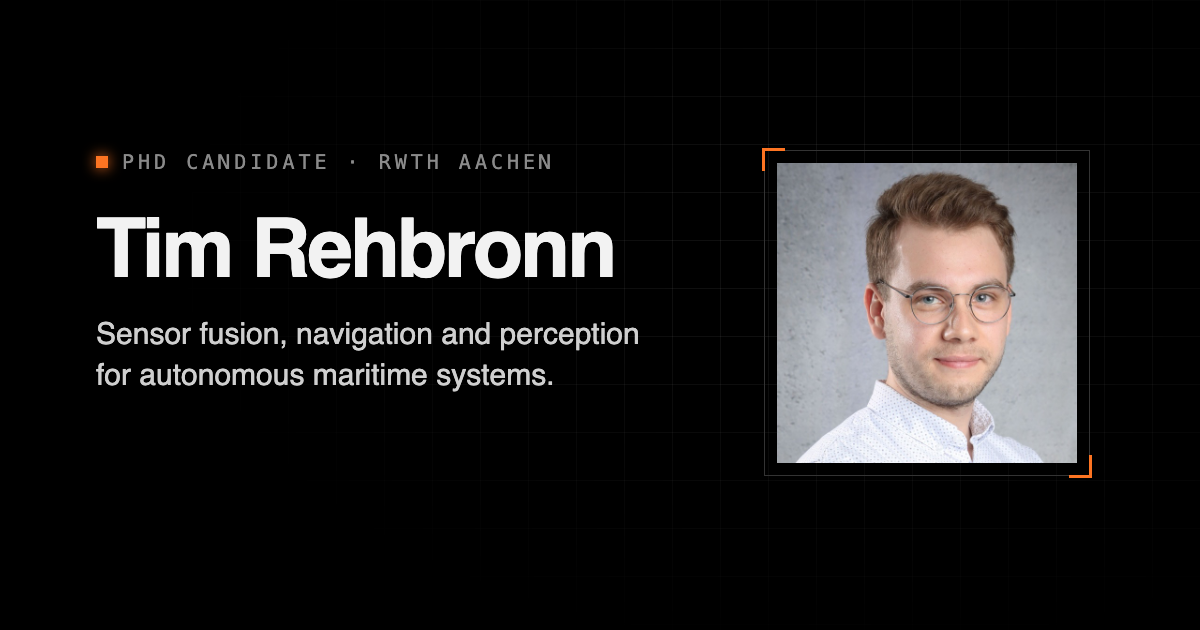
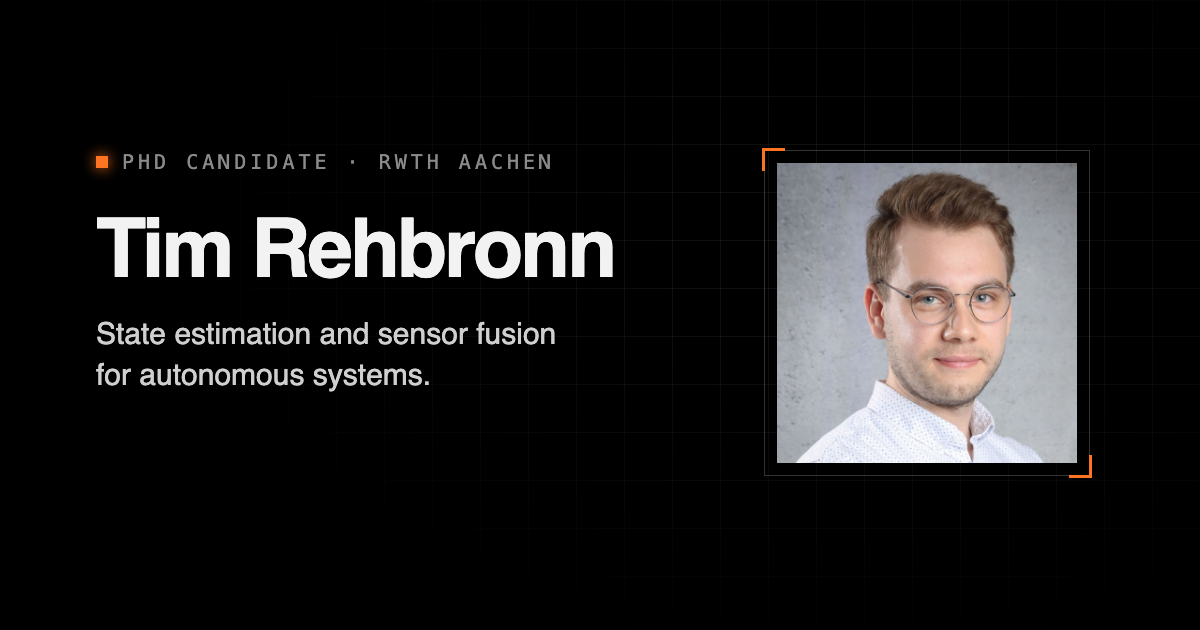
Refocus About on state estimation and add project illustrations
- About: focus on state estimation and sensor fusion for autonomous
  systems, thesis supervision, leadership training and working style;
  remove header line, portrait caption and em dashes
- Portrait under a new file name so browsers fetch the new photo
- Illustrations for the harbor navigation (factor graph) and inland
  vessel trajectory prediction projects

Changed region(s): [[0.0925, 0.5127, 0.555, 0.6333]]

diff --git a/src/config.ts b/src/config.ts
@@ -8,9 +8,9 @@ export const SITE = {
   affiliationUrl: 'https://www.irt.rwth-aachen.de',
   location: 'Aachen, Germany',
   description:
-    'Tim Rehbronn — PhD candidate at RWTH Aachen University working on sensor fusion, navigation and perception for autonomous maritime systems.',
+    'Tim Rehbronn — researcher and PhD candidate at RWTH Aachen University working on state estimation and sensor fusion for autonomous systems.',
   email: 'tim@rehbronn.de',
-  avatar: '/images/avatar.jpg',
+  avatar: '/images/portrait-2026.jpg', // new file name = no stale browser cache
   ogImage: '/images/og.png', // social preview image (1200×630)
   cvPdf: '', // optional: put a public CV into public/cv.pdf and set '/cv.pdf'
   // Variants of your name that get highlighted in author lists.

diff --git a/scripts/paper-thumbnails.py b/scripts/paper-thumbnails.py
@@ -1,4 +1,5 @@
-"""Generate teaser SVGs (320x200): SIMPLE-C, MSTNet, ICMASS 2025, ICECET 2023, Formula Student.
+"""Generate teaser SVGs (320x200): SIMPLE-C, MSTNet, ICMASS 2025, ICECET 2023, Formula Student,
+harbor navigation and inland vessel trajectory prediction.
 
 Usage: python3 scripts/paper-thumbnails.py public/images/publications
 """
@@ -312,6 +313,110 @@ def formula_student():
     s.append('</svg>')
     return '\n'.join(s)
 
+# ---------------------------------------------------------------- Robust harbor navigation (factor graph)
+def harbor_navigation():
+    s = []
+    s.append('<svg xmlns="http://www.w3.org/2000/svg" viewBox="0 0 320 200" width="640" height="400">')
+    s.append('<defs><pattern id="hg" width="16" height="16" patternUnits="userSpaceOnUse"><path d="M16 0H0V16" fill="none" stroke="#16181b" stroke-width=".8"/></pattern></defs>')
+    s.append('<rect width="320" height="200" fill="#060606"/><rect width="320" height="200" fill="url(#hg)"/>')
+    land = '#131417'
+    # narrow basin: quay walls top and bottom
+    s.append(f'<path d="M0 0 H320 V58 H250 L236 70 H120 L106 58 H0 Z" fill="{land}" stroke="#3a3f45" stroke-width="1"/>')
+    s.append(f'<path d="M0 200 V156 H90 L104 146 H214 L226 156 H320 V200 Z" fill="{land}" stroke="#3a3f45" stroke-width="1"/>')
+    # cranes / buildings on the quay (block GNSS)
+    for x, h in ((128, 30), (176, 38), (222, 26)):
+        s.append(f'<rect x="{x}" y="{70-h}" width="14" height="{h}" fill="#1c1e22" stroke="#4a4f56" stroke-width=".8"/>')
+        s.append(f'<path d="M{x+7} {70-h} V{70-h-10} M{x-6} {70-h-10} H{x+26}" stroke="#4a4f56" stroke-width="1"/>')
+    # satellites
+    def sat(x, y):
+        return (f'<g transform="translate({x} {y}) rotate(-20)"><rect x="-3" y="-3" width="6" height="6" fill="{FG}"/>'
+                f'<rect x="-13" y="-2" width="8" height="4" fill="none" stroke="{FG}" stroke-width=".9"/>'
+                f'<rect x="5" y="-2" width="8" height="4" fill="none" stroke="{FG}" stroke-width=".9"/></g>')
+    s.append(sat(34, 18)); s.append(sat(296, 16)); s.append(sat(190, 10))
+    # trajectory poses
+    poses = [(26, 108), (60, 104), (96, 102), (132, 104), (168, 108), (204, 110), (240, 106), (276, 100), (304, 96)]
+    sig = [6, 6.5, 9, 12, 15, 17, 11, 7, 6]  # uncertainty grows inside the GNSS-denied section
+    for (x, y), r in zip(poses, sig):
+        s.append(f'<ellipse cx="{x}" cy="{y}" rx="{r*1.25:.1f}" ry="{r*.8:.1f}" fill="{ORANGE}" fill-opacity=".07" stroke="{ORANGE}" stroke-opacity=".35" stroke-width=".7"/>')
+    # GNSS factors only at the open ends; blocked signals in the middle
+    for (sx, sy), idx in (((34, 18), 0), ((34, 18), 1), ((296, 16), 7), ((296, 16), 8)):
+        x, y = poses[idx]
+        s.append(f'<line x1="{sx}" y1="{sy+4}" x2="{x}" y2="{y-6}" stroke="{FG}" stroke-opacity=".5" stroke-width=".8" stroke-dasharray="1.5 2"/>')
+        s.append(f'<rect x="{x-2.5}" y="{y-20}" width="5" height="5" fill="{FG}"/><line x1="{x}" y1="{y-15}" x2="{x}" y2="{y-4}" stroke="{FG}" stroke-width=".8"/>')
+    for tx, ty in ((168, 46), (190, 40)):
+        s.append(f'<line x1="190" y1="14" x2="{tx}" y2="{ty}" stroke="{MUTED}" stroke-width=".8" stroke-dasharray="1.5 2"/>')
+        s.append(f'<path d="M{tx-3} {ty-3} l6 6 M{tx+3} {ty-3} l-6 6" stroke="{ORANGE}" stroke-width="1.3"/>')
+    # landmark factors (LiDAR / radar / camera) to quay corners
+    landmarks = [(106, 58), (120, 70), (236, 70), (104, 146), (214, 146)]
+    for lx, ly in landmarks:
+        s.append(f'<path d="M{lx} {ly-4} l4 7 h-8 z" fill="none" stroke="{BLUE}" stroke-width="1"/>')
+    for (pi, li) in ((2, 0), (3, 1), (3, 3), (4, 3), (5, 2), (5, 4), (6, 2), (4, 4)):
+        x, y = poses[pi]; lx, ly = landmarks[li]
+        mx, my = (x + lx) / 2, (y + ly) / 2
+        s.append(f'<line x1="{x}" y1="{y}" x2="{lx}" y2="{ly}" stroke="{BLUE}" stroke-opacity=".55" stroke-width=".8"/>')
+        s.append(f'<rect x="{mx-2}" y="{my-2}" width="4" height="4" fill="#060606" stroke="{BLUE}" stroke-width=".8"/>')
+    # odometry / IMU factors between consecutive poses
+    for (x0, y0), (x1, y1) in zip(poses, poses[1:]):
+        s.append(f'<line x1="{x0}" y1="{y0}" x2="{x1}" y2="{y1}" stroke="{ORANGE}" stroke-width="1.4"/>')
+        s.append(f'<rect x="{(x0+x1)/2-2.5:.1f}" y="{(y0+y1)/2-2.5:.1f}" width="5" height="5" fill="#060606" stroke="{ORANGE}" stroke-width="1"/>')
+    for x, y in poses:
+        s.append(f'<circle cx="{x}" cy="{y}" r="4" fill="#060606" stroke="{ORANGE}" stroke-width="1.6"/>')
+    # vessel at the last pose
+    s.append(hull(304, 96, 20, 7, -8, fill=ORANGE))
+    s.append('</svg>')
+    return '\n'.join(s)
+
+# ---------------------------------------------------------------- Inland vessel trajectory prediction
+def inland_prediction():
+    random.seed(8)
+    s = []
+    s.append('<svg xmlns="http://www.w3.org/2000/svg" viewBox="0 0 320 200" width="640" height="400">')
+    s.append('<defs><pattern id="ig" width="16" height="16" patternUnits="userSpaceOnUse"><path d="M16 0H0V16" fill="none" stroke="#16181b" stroke-width=".8"/></pattern></defs>')
+    s.append('<rect width="320" height="200" fill="#060606"/><rect width="320" height="200" fill="url(#ig)"/>')
+    # river centerline (meander) and banks
+    def center(x):
+        return 112 + 34 * math.sin((x - 20) / 62) - 8 * math.sin((x - 20) / 23)
+    xs = [i * 4 for i in range(0, 82)]
+    top = [(x, center(x) - 30) for x in xs]; bot = [(x, center(x) + 30) for x in xs]
+    river = 'M' + ' L'.join(f'{x:.1f} {y:.1f}' for x, y in top) + ' L' + ' L'.join(f'{x:.1f} {y:.1f}' for x, y in reversed(bot)) + ' Z'
+    s.append(f'<path d="{river}" fill="#0d1012"/>')
+    for bank in (top, bot):
+        s.append('<path d="M' + ' L'.join(f'{x:.1f} {y:.1f}' for x, y in bank) + '" fill="none" stroke="#3a3f45" stroke-width="1.2"/>')
+    # fairway axis
+    s.append('<path d="M' + ' L'.join(f'{x:.1f} {center(x):.1f}' for x in xs) + f'" fill="none" stroke="{MUTED}" stroke-opacity=".5" stroke-width=".7" stroke-dasharray="3 4"/>')
+    # river kilometre markers
+    for x in (40, 120, 200, 280):
+        y = center(x) + 30
+        s.append(f'<line x1="{x}" y1="{y}" x2="{x}" y2="{y+6}" stroke="{MUTED}" stroke-width="1"/>')
+    # AIS history (past positions)
+    x0 = 128
+    hist = [(x, center(x) + 6 + random.uniform(-1.2, 1.2)) for x in range(20, x0, 9)]
+    for i, (x, y) in enumerate(hist):
+        s.append(f'<circle cx="{x:.1f}" cy="{y:.1f}" r="2" fill="{BLUE}" opacity="{.3 + .6 * i / len(hist):.2f}"/>')
+    vy = center(x0) + 6
+    # predicted futures: fan of samples + growing uncertainty
+    for k in range(-4, 5):
+        pts = []
+        for j in range(0, 46):
+            x = x0 + j * 3.6
+            spread = (j / 45) ** 1.5 * 22 * k / 4
+            pts.append((x, center(x) + 6 + spread))
+        op = .9 if k == 0 else .22
+        w = 1.8 if k == 0 else 1
+        s.append('<path d="M' + ' L'.join(f'{x:.1f} {y:.1f}' for x, y in pts) + f'" fill="none" stroke="{ORANGE}" stroke-opacity="{op}" stroke-width="{w}"' + (' stroke-dasharray="4 3"' if k == 0 else '') + '/>')
+    for j in (15, 30, 45):
+        x = x0 + j * 3.6; r = 3 + (j / 45) ** 1.5 * 22
+        s.append(f'<ellipse cx="{x:.1f}" cy="{center(x) + 6:.1f}" rx="{r*.55:.1f}" ry="{r:.1f}" fill="none" stroke="{ORANGE}" stroke-opacity=".5" stroke-width=".8"/>')
+    # the vessel (long inland barge) with AIS beacon
+    ang = math.degrees(math.atan2(center(x0 + 1) - center(x0 - 1), 2))
+    s.append(hull(x0, vy, 34, 8, ang, fill=FG))
+    s.append(f'<g fill="none" stroke="{BLUE}" stroke-width="1" stroke-linecap="round"><path d="M{x0-4} {vy-12} a6 6 0 0 1 8 0"/><path d="M{x0-7} {vy-16} a10 10 0 0 1 14 0"/></g>')
+    s.append(f'<text x="{x0-30}" y="{vy-18}" font-family="Menlo, Consolas, monospace" font-size="8" letter-spacing="1" fill="{BLUE}">AIS</text>')
+    s.append('</svg>')
+    return '\n'.join(s)
+
+open(f'{OUT}/harbor-navigation.svg', 'w').write(harbor_navigation())
+open(f'{OUT}/inland-trajectory-prediction.svg', 'w').write(inland_prediction())
 open(f'{OUT}/formula-student.svg', 'w').write(formula_student())
 open(f'{OUT}/simple-c.svg', 'w').write(simplec())
 open(f'{OUT}/mstnet.svg', 'w').write(mstnet())

diff --git a/src/content/projects/robust-harbor-navigation.md b/src/content/projects/robust-harbor-navigation.md
@@ -3,6 +3,7 @@ title: Robust Navigation in GNSS-sparse Constrained Harbor Environments
 summary: Fusing IMU, LiDAR, radar, camera and GNSS with factor graphs and an iterated ES-EKF for reliable vessel navigation where satellite signals are sparse.
 year: 2026
 status: active
+image: /images/projects/harbor-navigation.svg
 featured: true
 tags: [navigation, factor graphs, iterated ES-EKF, sensor fusion]
 ---

diff --git a/src/content/projects/inland-vessel-trajectory-prediction.md b/src/content/projects/inland-vessel-trajectory-prediction.md
@@ -3,6 +3,7 @@ title: Trajectory Prediction for Inland Vessels
 summary: Learned, physics-inspired models that predict where inland vessels will go — trained on AIS data.
 year: 2026
 status: active
+image: /images/projects/inland-trajectory-prediction.svg
 featured: false
 tags: [trajectory prediction, AIS, deep learning, physics-inspired]
 ---
